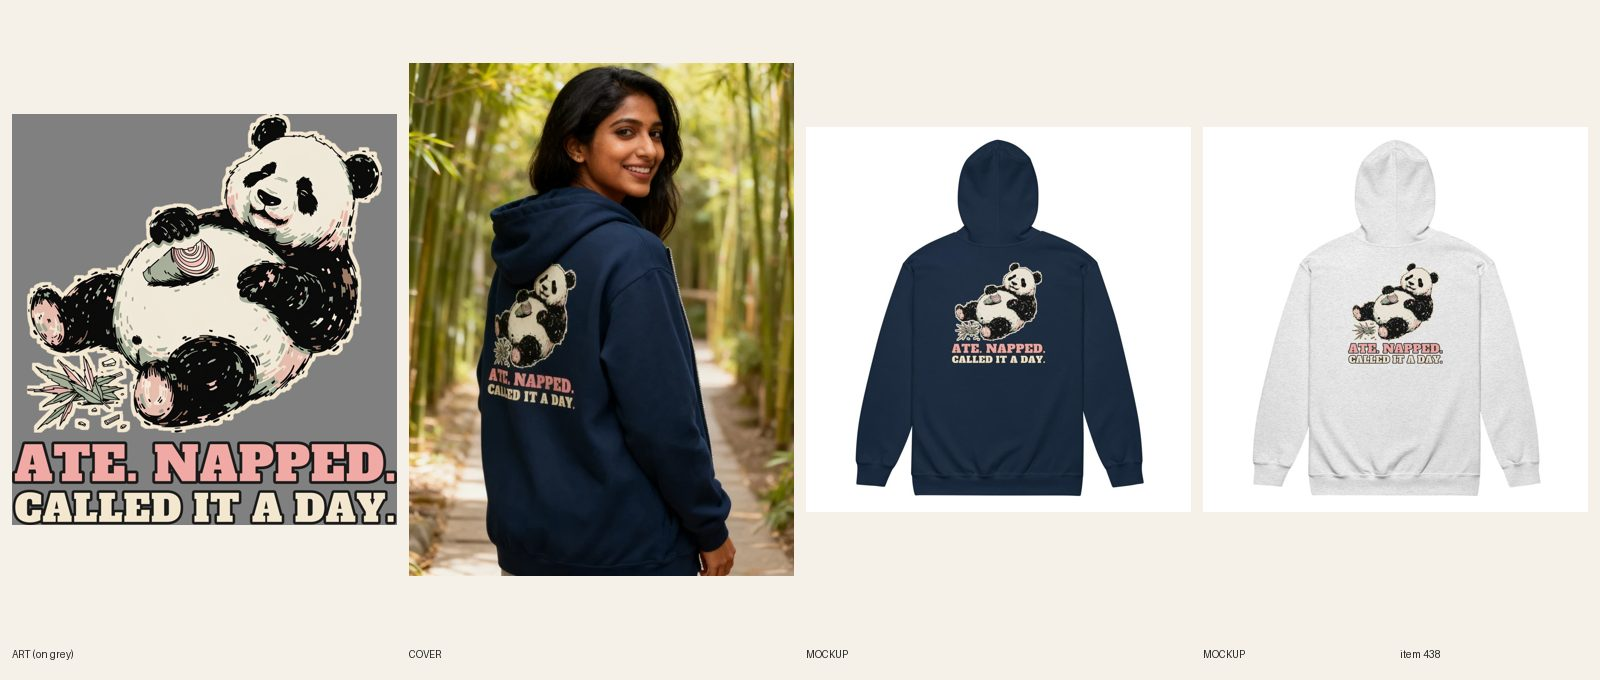
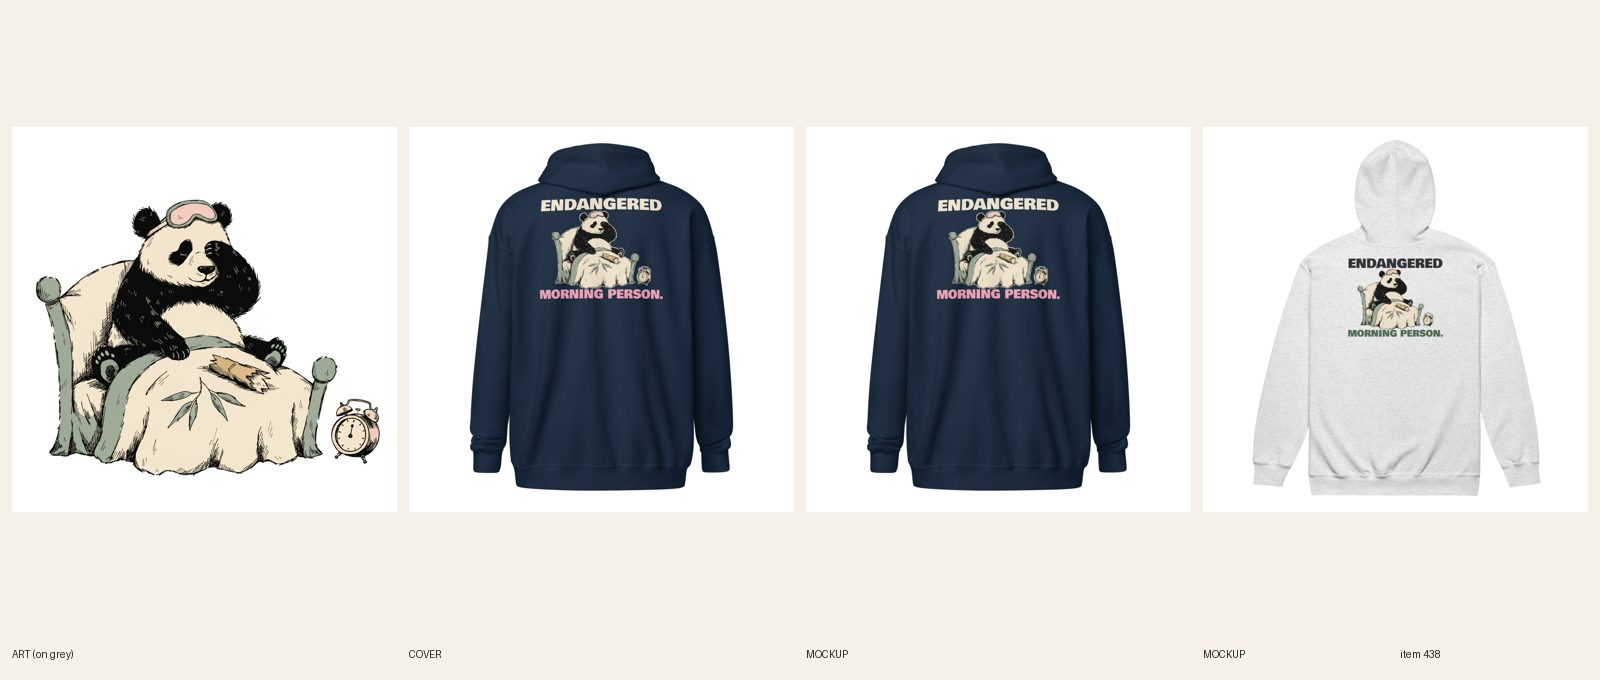
[E] review 438 redid #438 Women's Panda zip hoodie (line + type: ENDANGERED / MORNING PERSON., new sleepy-panda-in-bed art, Bowlby One, Navy + Ash dark-ink file, new head chest copy, 12/12 synced). REVIEW. fal $0.04.

diff --git a/docs/pipeline/438-zip-hoodie-panda-bamboozled.md b/docs/pipeline/438-zip-hoodie-panda-bamboozled.md
@@ -1,4 +1,4 @@
-status: REDO
+status: REVIEW
 lane: E
 type: new
 id: 438
@@ -32,3 +32,4 @@ kd: 25
 - 2026-10-17 22:00 UTC builder [E]: Built (REVIEW when sync = 12/12). Line per the 20:25 note: ATE. NAPPED. / CALLED IT A DAY. New scene: panda napping on its back with a half-eaten bamboo stalk and leaf crumbs (Recraft 1 call, picture only). Words in Alfa Slab (pink / cream, dark outline), cream halo for the black patches on Navy. Zip layout: back print FW 1650 (3322x3550, file 1088490625) + head-only left-chest copy (file 1088490641, 525 px). Navy + Ash back and front mockups attached per color. Shopify title now 'Women's Panda – Ate. Napped. Called It a Day. Zip Hoodie' (handle unchanged), SEO + all copy rewritten, FAQs 5. Cover: registry 634, seedream 2 attempts (1st put the back print on the front across the zipper with her braid over it; 2nd photographed from behind, full back print visible; hood sits close above the print; director to judge, the letters 'ATE.' and 'CALLED' are slightly redrawn by the model). fal ~$0.21.
 - 2026-10-17 22:39 UTC director: APPROVED, LIVE. ACTIVE + Online Store, Headless and Google & YouTube; audit --handle PASS (0 warn). Copy polished by the director first (R8: keyword counts, superlatives, false claims).
 - 2026-10-18 17:22 UTC director: QUALITY RESET grade C (new line + type), REDO. The product stays ACTIVE (same handle, URL, title keyword). 1. Line (R3.12, quality-reset 'Lines'): "ATE. NAPPED. / CALLED IT A DAY.": Describes the lazy panda; mild, no twist. Write 5 candidates, keep the one a stranger laughs at in 3 seconds without backstory; kill lines that only describe the picture; if none of the 5 is funny, PARK it. 2. Quality reset type bar (docs/backlog/quality-reset.md, 'The new bar'): headline at least 90% of the art width, heavy, colors pulled from the art; second line at least 45% of the headline's height, never a thin script on a dark or mid garment; use the lettering as a shape (arch, stacked lockup, words breaking into the art), not a plain bar above and a script line below; no font used on more than 1 in 6 of the last 30 designs. 3. Keep the art if it carries the new line, else one new illustration (R4/R5). New print means a new cover per R6.10, copy line one rewritten for the new joke (R8.3), and a fresh review sheet (R7.7). While quality-reset.md says PAUSED, only lane A builds, and only the samples step 2 names.
+- 2026-10-20 05:53 UTC builder [E]: REDO 438 (C grade, line + type) done in place (stays ACTIVE, handle unchanged; title now Women's Panda – Endangered Morning Person Zip Hoodie). 5 candidates: 'ATE. NAPPED. / CALLED IT A DAY.' (old); 'NOT A MORNING PANDA.'; 'WELL-RESTED, STILL RUDE.'; 'ENDANGERED / MORNING PERSON.'; 'DO NOT WAKE THE PANDA.'. Kept ENDANGERED / MORNING PERSON. (endangered species gag with a real second meaning, the alarm clock and sleep mask carry it in 3 seconds). One Recraft call ($0.04), picture only: panda sitting up in bed with sleep mask, alarm clock, bamboo. Bowlby One: ENDANGERED at full print width, MORNING PERSON. at full width too (punchline not a caption). Navy back file 1090189544 (cream + pink, thin cream halo); Ash back file 1090189573 (charcoal + deep green, dark ink; light file logged for Ash). Back BW 1650 BT 150, chest copy 525 px (new head crop file 1090189535, cream halo). Verified 12/12 with back and chest on the new files. Back and front mockups replaced in place, alts, title, SEO, copy, FAQs rewritten (ink named from the mockups). Phone-size read OK. Cover: handle added to retired-covers.json (plain product shot). audit PASS 0 warn, build OK. Sheet docs/review/438.jpg.

diff --git a/docs/intake-log.md b/docs/intake-log.md
@@ -1,5 +1,6 @@
 RUNNING lane B since 2026-10-20 05:30 UTC
 2026-10-20 05:46 UTC — [B] Builder run: redid #280 Women's Thanksgiving pumpkin hoodie round 2 (R3.7.8: punch THE WARM-UP. widened to headline width, 3600/3600 px, Navy + Sand, 12/12 synced). REVIEW. fal $0.
+2026-10-20 05:53 UTC — [E] Builder run: redid #438 Women's Panda zip hoodie (line + type: ENDANGERED / MORNING PERSON., new sleepy-panda-in-bed art, Bowlby One, Navy + Ash dark-ink file, new head chest copy, 12/12 synced). REVIEW. fal $0.04.
 RUNNING lane C since 2026-10-20 05:30 UTC
 2026-10-20 05:45 UTC — [H] Helper run: Telegram inbox empty (getUpdates returned 0 updates, nothing to consume). Audit 608 products: 0 errors, 30 warnings left alone (polish); committed docs/cohesion-audit.md and .json (npm ci first, esbuild was missing). Category check: 0 products without a Shopify category. Site check: #649, #356, #326 all 200 (first try used filename slugs, which are not the handles; real handles are in each pipeline file). Stuck-work check: nothing BUILDING over 3h (#332 claimed 05:44 by lane A, #341 05:41 by lane C). Announcement bar already on the holiday line. Daily summary not due (before 12:00 UTC). Lock released.
 2026-10-20 05:52 UTC — [C] Builder run: redid #341 Women's Axolotl oversized hoodie (new line + type: I'M FINE. / JUST A LITTLE RAIN., Fraunces Black + Bevan, same teacup art, Dust file 1090192013 + Navy file 1090192095, FW 1500 TOP 30, 12/12 relinked, 2 fronts replaced in place, copy + SEO updated, plain product shot). REVIEW. fal $0.
